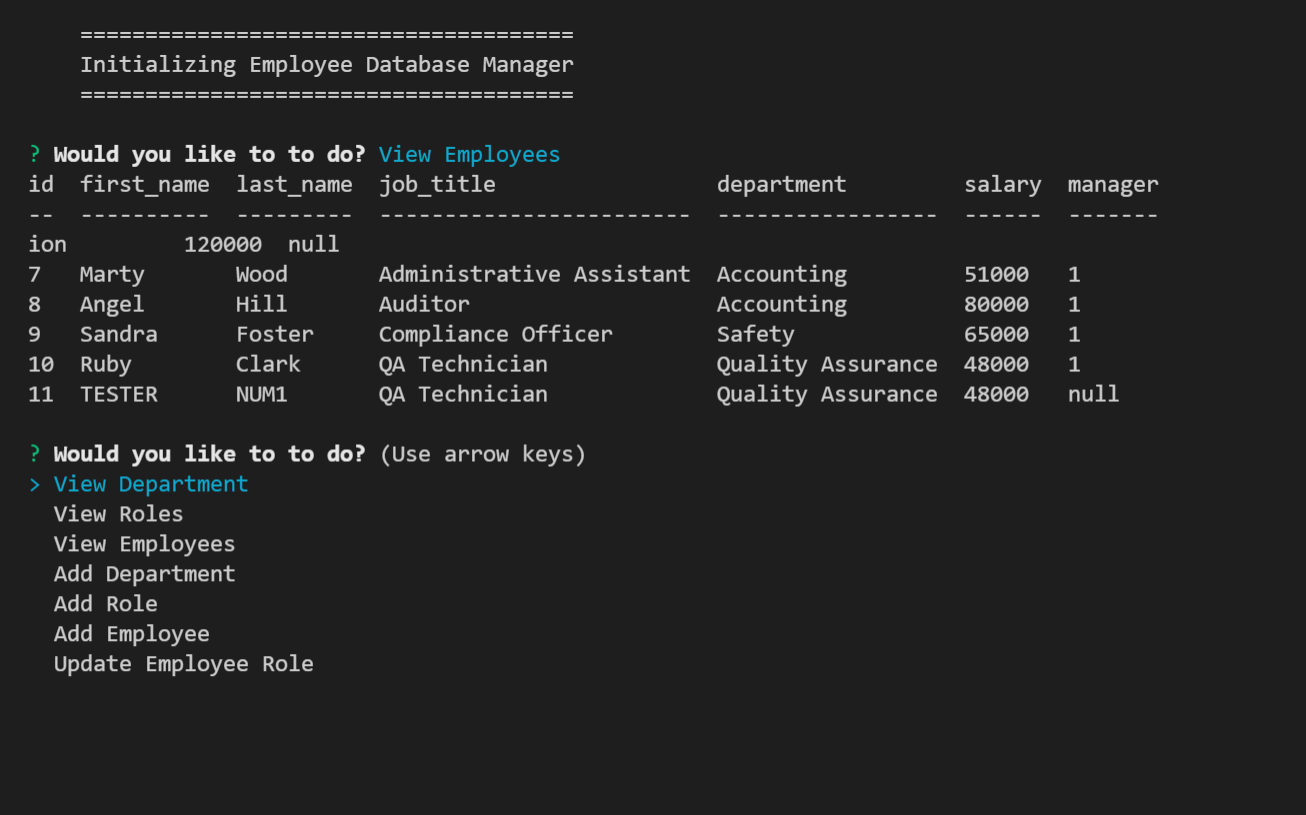
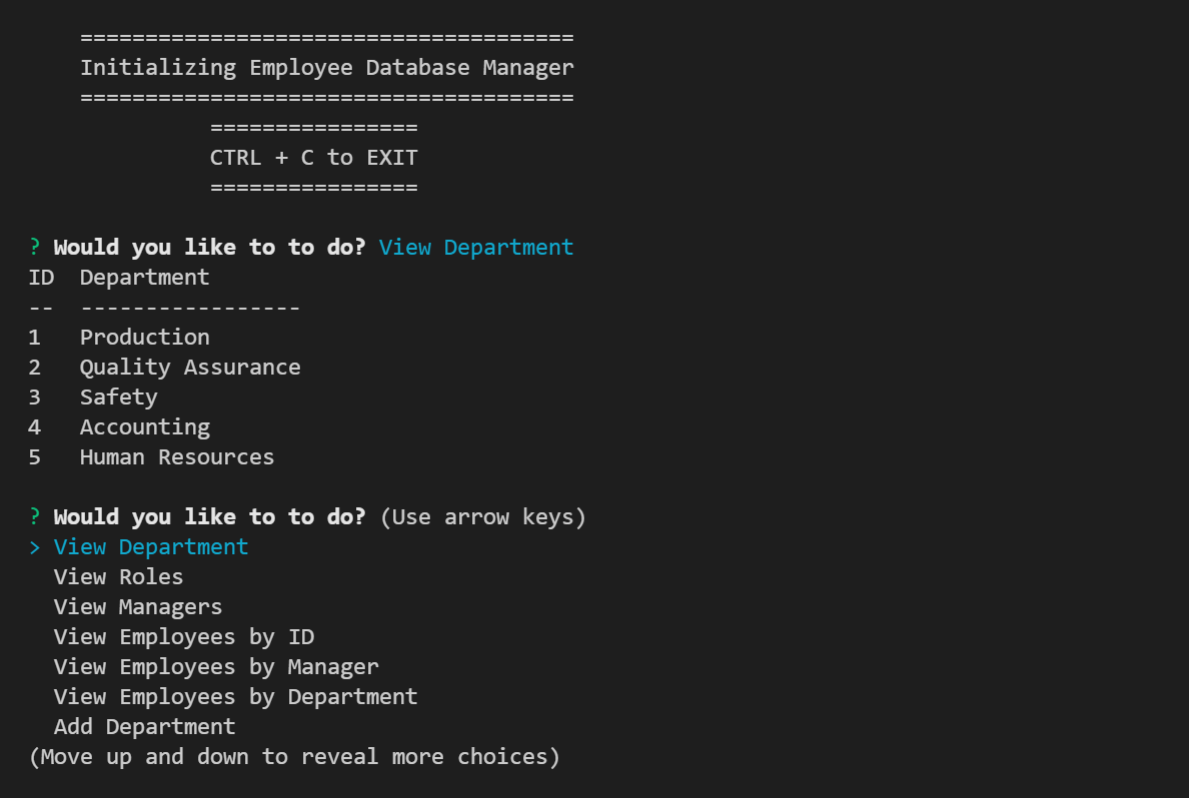
comments, no manager opt, MVP

diff --git a/index.js b/index.js
@@ -2,10 +2,11 @@ const inquirer = require('inquirer');
 const Query = require('./lib/Query');
 const Prompts = require('./lib/Prompts');
 const cTable = require('console.table');
+// Initialize the Query and Prompt classes
 const employeeDb = new Query;
 const prompt = new Prompts;
 
-// Starting menu
+// Application object
 class Application {
   applicationStart() {
     console.log(`
@@ -19,7 +20,7 @@ class Application {
     this.applicationMenu();
   }
   applicationMenu() {
-    // initialize inqurirer to gather user input
+    // Initialize inquirer to gather user input
     return inquirer
       .prompt([
         {
@@ -27,6 +28,7 @@ class Application {
           name: 'menu',
           message: 'Would you like to to do?',
           choices:
+            // Starting Menu
             [
               'View Department',
               'View Roles',
@@ -48,16 +50,16 @@ class Application {
         this.menuHandler(selection.menu);
       })
   };
-
-
+  // Async switch function to handle menu selections 
   menuHandler = async selection => {
     switch (selection) {
-      case 'View Department':
+      // READ operations, returns formatted tables in console
+      case 'View Department': 
         await employeeDb.viewDepartments()
           .then(data => {
             return console.table(data);
           });
-        break;
+        break;  
       case 'View Roles':
         await employeeDb.viewRoles()
           .then(data => {
@@ -88,21 +90,27 @@ class Application {
             return console.table(data);
           });
         break;
+        // CREATE/UPDATE/DELETE:
+        // DATA VALIDATION: SQL database is queried (READ) when it can 
+        // to provide validated data to the prompts for user selection
+        // in lists rather than validating user inputed text
       case 'Add Department':
         await prompt.departmentPrompt()
           .then(department => {
-            return employeeDb.addDepartment(department.name);
+            return employeeDb.addDepartment(department.name); // CREATE operation
           })
         break;
       case 'Add Role':
         await employeeDb.viewDepartments()
           .then(data => {
+            // Create an array of choices by mapping/filtering the returned promise object from the SQL query
             const deptArray = data.map(({ ID, Department }) => (ID + ": " + Department));
-            return prompt.rolePrompt(deptArray)
+            return prompt.rolePrompt(deptArray) // Send array, created from a db query, to the user input prompt as a list
           })
           .then(input => {
+            // Determine ID by parsing the user selection from the prompts  
             const deptId = input.choice.split(":", 1)[0];
-            return employeeDb.addRole(deptId, input.name, input.salary);
+            return employeeDb.addRole(deptId, input.name, input.salary); // CREATE operation (this general process is repeated for all CREATE operations)
           })
         break;
       case 'Add Employee':
@@ -110,12 +118,17 @@ class Application {
           .then(data => {
             const managerArray = data.filter(data => data.Title === 'Manager').map(({ ID, Title, Department }) => (ID + ": " + Title + " " + "| " + Department));
             const roleArray = data.filter(data => data.Title !== 'Manager').map(({ ID, Title, Department }) => (ID + ": " + Title + " " + "| " + Department));
-            return prompt.employeePrompt(roleArray, managerArray.push(null));
+            managerArray.push('No Manager')
+            return prompt.employeePrompt(roleArray, managerArray);
           })
           .then(input => {
+            if (input.manager === 'No Manager') {
+              var managerId = null;
+            } else {
+              var managerId = input.manager.split(":", 1)[0];
+            }
             const roleId = input.role.split(":", 1)[0];
-            const managerId = input.manager.split(":", 1)[0];
-            return employeeDb.addEmployee(input.firstName, input.lastName, roleId, managerId);
+            return employeeDb.addEmployee(input.firstName, input.lastName, roleId, managerId); // CREATE operation
           })
         break;
       case 'Update Employee Role':
@@ -131,7 +144,7 @@ class Application {
           .then(input => {
             const employeeId = input.employee.split(":", 1)[0];
             const roleId = input.role.split(":", 1)[0];
-            return employeeDb.updateRole(roleId, employeeId);
+            return employeeDb.updateRole(roleId, employeeId); // UPDATE operation
           })
         break;
       case 'Update Employee Manager':
@@ -147,7 +160,7 @@ class Application {
           .then(input => {
             const employeeId = input.employee.split(":", 1)[0];
             const managerId = input.manager.split(":", 1)[0];
-            return employeeDb.updateManager(managerId, employeeId);
+            return employeeDb.updateManager(managerId, employeeId); // UPDATE operation
           })
         break;
       case 'Delete Employee':
@@ -157,7 +170,7 @@ class Application {
             return prompt.deleteEmp(employeeArray);
           })
           .then(input => {
-            return employeeDb.deleteEmp(input.employee.split(":", 1)[0]);
+            return employeeDb.deleteEmp(input.employee.split(":", 1)[0]); // DELETE operation
           })
         break;
       case 'Delete Role':
@@ -167,7 +180,7 @@ class Application {
             return prompt.deleteRole(roleArray);
           })
           .then(input => {
-            return employeeDb.deleteRole(input.role.split(":", 1)[0]);
+            return employeeDb.deleteRole(input.role.split(":", 1)[0]); // DELETE operation
           })
         break;
       case 'Delete Department':
@@ -177,12 +190,12 @@ class Application {
             return prompt.deleteDept(deptArray);
           })
           .then(input => {
-            return employeeDb.deleteDept(input.role.split(":", 1)[0]);
+            return employeeDb.deleteDept(input.role.split(":", 1)[0]); // DELETE operation
           })
         break;
     };
-    this.applicationMenu();
+    this.applicationMenu(); // Relaunch main menu after operation complete
   };
 };
-
+// Launch application
 new Application().applicationStart();

diff --git a/lib/Prompts.js b/lib/Prompts.js
@@ -1,6 +1,8 @@
 const inquirer = require('inquirer');
 
+// Prompt class for initiating user input prompts
 class Prompt {
+  // CREATE: ADD department prompt
   departmentPrompt() {
     return inquirer
       .prompt([
@@ -19,7 +21,7 @@ class Prompt {
         }
       ])
   };
-
+  // CREATE: ADD role prompt
   rolePrompt(departments) {
     return inquirer
       .prompt([
@@ -56,11 +58,11 @@ class Prompt {
           type: 'list',
           name: 'choice',
           message: `What department is the role associated with?`,
-          choices: departments
+          choices: departments // List formulated by a DB query
         },
       ])
   };
-
+  // CREATE: Add employee prompt
   employeePrompt(roles, managers) {
     return inquirer
       .prompt([
@@ -94,17 +96,17 @@ class Prompt {
           type: 'list',
           name: 'role',
           message: `What is the role of the new employee?`,
-          choices: roles
+          choices: roles // List formulated by a DB query
         },
         {
           type: 'list',
           name: 'manager',
           message: `Who is the manager of the new employee?`,
-          choices: managers
+          choices: managers // List formulated by a DB query
         },
       ])
   };
-
+  // UPDATE: Update department prompt
   updateEmployee(roles, employees) {
     return inquirer
       .prompt([
@@ -112,17 +114,17 @@ class Prompt {
           type: 'list',
           name: 'employee',
           message: `Which employee would you like to update?`,
-          choices: employees
+          choices: employees // List formulated by a DB query
         },
         {
           type: 'list',
           name: 'role',
           message: `What role would you like to apply to this employee?`,
-          choices: roles
-        },
+          choices: roles // List formulated by a DB query
+        }, 
       ])
   };
-
+  // UPDATE: Update manager prompt
   updateManager(managers, employees) {
     return inquirer
       .prompt([
@@ -130,17 +132,17 @@ class Prompt {
           type: 'list',
           name: 'employee',
           message: `Which employee would you like to update?`,
-          choices: employees
+          choices: employees // List formulated by a DB query
         },
         {
           type: 'list',
           name: 'manager',
           message: `What role would you like to apply to this employee?`,
-          choices: managers
+          choices: managers // List formulated by a DB query
         },
       ])
   };
-
+  // DELETE: Remove employee prompt
   deleteEmp(employees) {
     return inquirer
       .prompt([
@@ -148,11 +150,11 @@ class Prompt {
           type: 'list',
           name: 'employee',
           message: `Which employee would you like to remove?`,
-          choices: employees
+          choices: employees // List formulated by a DB query
         }
       ])
   };
-
+  // DELETE: Remove role prompt
   deleteRole(roles) {
     return inquirer
       .prompt([
@@ -160,11 +162,11 @@ class Prompt {
           type: 'list',
           name: 'role',
           message: `Which employee would you like to remove?`,
-          choices: roles
+          choices: roles // List formulated by a DB query
         }
       ])
   };
-
+  // DELETE: Remove deptartment prompt
   deleteDept(roles) {
     return inquirer
       .prompt([
@@ -172,7 +174,7 @@ class Prompt {
           type: 'list',
           name: 'role',
           message: `Which employee would you like to remove?`,
-          choices: roles
+          choices: roles // List formulated by a DB query
         }
       ])
   };

diff --git a/lib/Query.js b/lib/Query.js
@@ -10,7 +10,6 @@ class Query {
         return rows;
       });
   };
-
   // READ: View all roles
   viewRoles() {
     return db.promise().query(`
@@ -22,7 +21,6 @@ class Query {
         return rows;
       });
   };
-
   // READ: View all employees by ID
   viewEmpsId(promiseData) {
     return db.promise().query(`
@@ -39,7 +37,6 @@ class Query {
         return ({ promiseData, rows });
       });
   };
-
   // READ: View all employees by manager
   viewEmpsManager() {
     return db.promise().query(`
@@ -54,7 +51,7 @@ class Query {
         return rows;
       });
   };
-
+  // READ: View all employees by department
   viewEmpsDept() {
     return db.promise().query(`
       SELECT department.name 'Department', CONCAT(e.first_name," ", e.last_name) AS Employee,  e.id 'ID', role.title 'Title', role.salary 'Salary', CONCAT(m.first_name," ", m.last_name) AS Manager
@@ -68,7 +65,6 @@ class Query {
         return rows;
       });
   };
-
   // READ: View all managers
   viewManagers() {
     return db.promise().query(`
@@ -103,7 +99,6 @@ class Query {
         console.log(`Added ${name} to the database`);
       });
   };
-
   // CREATE: Add a employee
   addEmployee(firstName, lastName, roleId, managerId) {
     const sql = `INSERT INTO employee (first_name, last_name, role_id, manager_id)
@@ -124,7 +119,6 @@ class Query {
         console.log(`Employee role updated`);
       });
   };
-
   // UPDATE: Update an employee manager
   updateManager(roleId, employeeId) {
     const sql = `UPDATE employee SET manager_id = ? WHERE id = ?;`;
@@ -143,17 +137,14 @@ class Query {
         console.log(`Employee removed!`);
       });
   };
-
   // DELETE: Remove a role
   deleteRole(roleId) {
-    const sql = `DELETE FROM department WHERE id = ?`;
+    const sql = `DELETE FROM role WHERE id = ?`;
     return db.promise().query(sql, roleId)
       .then(([rows, fields]) => {
         console.log(`Role removed!`);
       });
   };
-
-  
   // DELETE: Remove a department
   deleteDept(deptId) {
     const sql = `DELETE FROM department WHERE id = ?`;

diff --git a/README.md b/README.md
@@ -75,9 +75,10 @@
   ## Usage 
 
   - Open VSCode in root directory.
-  - Type `node app.js` in the terminal to initialize the application.
+  - Type `node index.js` in the terminal to initialize the application.
   - The application main menu will appear in the terminal
   - The user can manipulate the database in any of the ways listed in the main menu
+  - CTRL + C to EXIT the command line application
 
   <p align="right">(<a href="#top">back to top</a>)</p>
   
